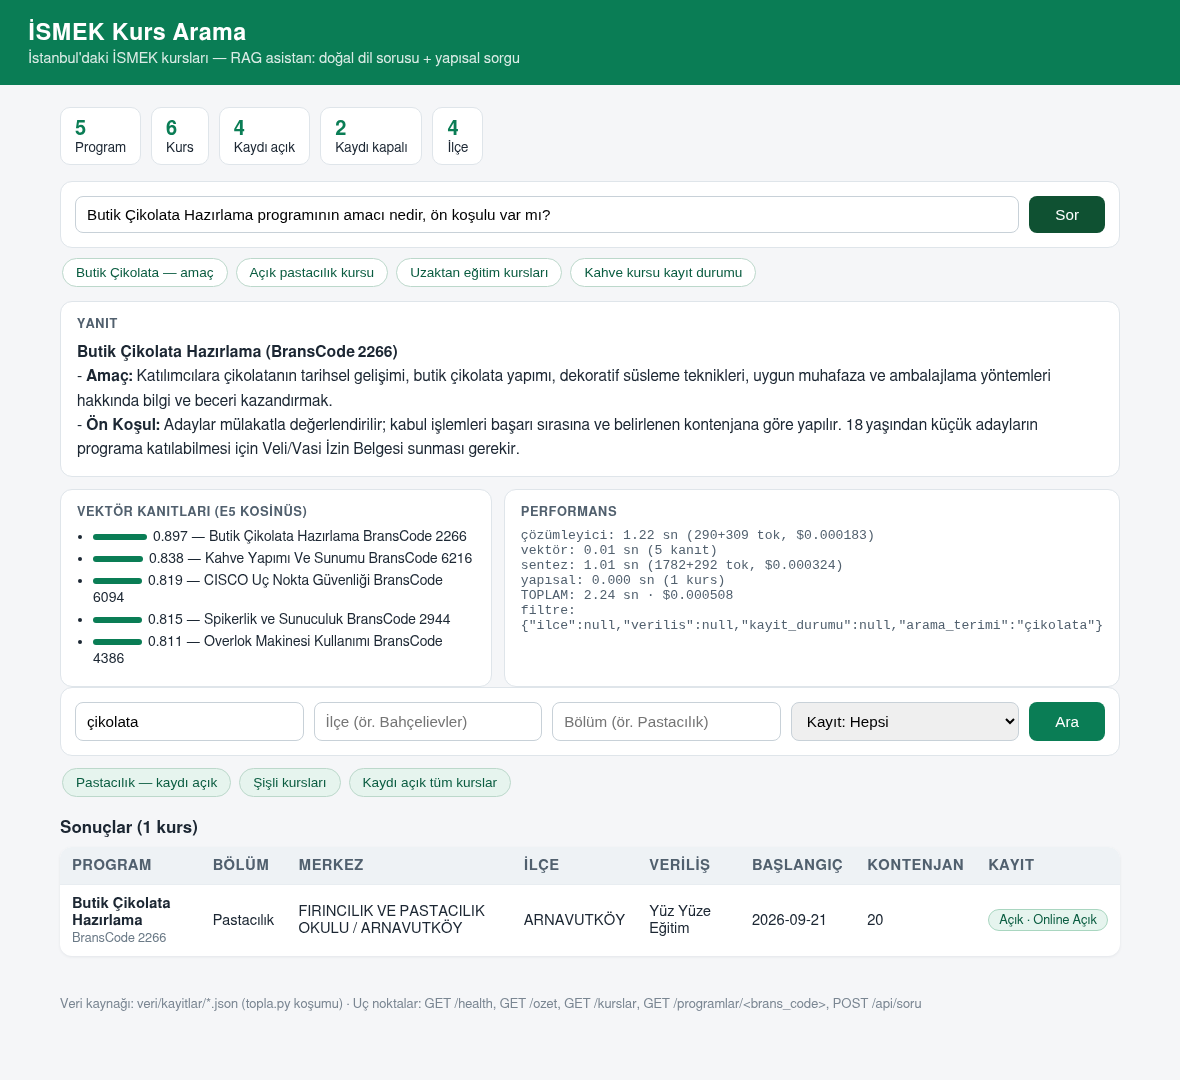
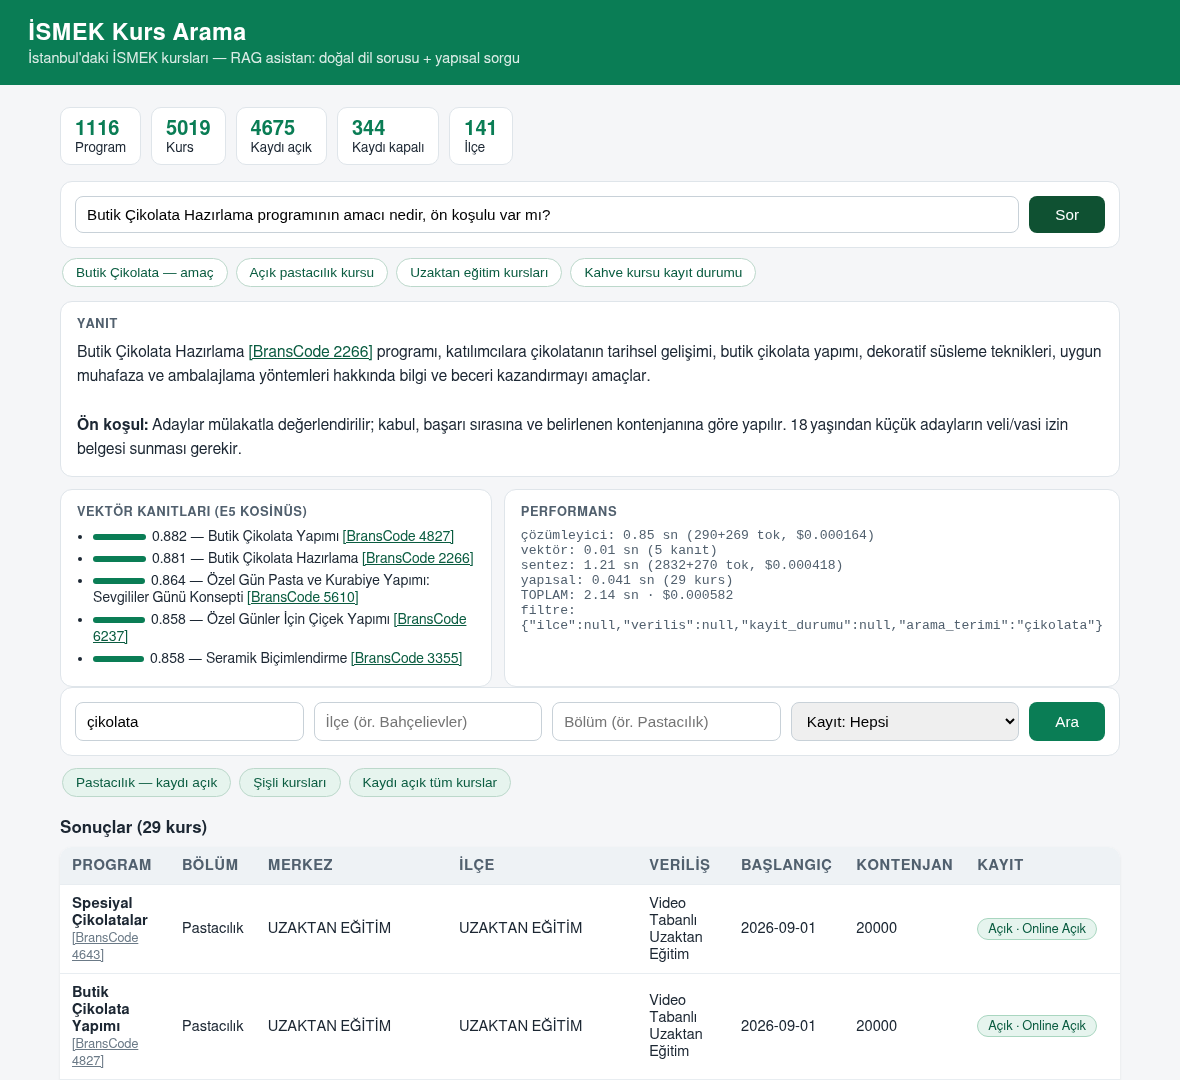
BransCode referanslari ISMEK portal linkine donusturuldu.

diff --git a/app/web.py b/app/web.py
@@ -88,6 +88,9 @@ SAYFA = """<!doctype html>
           background: #fdecec; border: 1px solid #f0b7b7; color: #9b2626; }
 
 
+  main a { color: #0a5c40; }
+  main a:hover { text-decoration: underline; }
+
 </style>
 </head>
 <body>
@@ -175,6 +178,17 @@ function tarih(k) {
   return String(k ?? "").slice(0, 10);
 }
 
+function portal(kod) {
+  return '<a class="kod" href="https://enstitu.ibb.istanbul/portal/egitim_detay.aspx?BransCode='
+    + kod + '" target="_blank" rel="noopener">[BransCode ' + kod + ']</a>';
+}
+
+function portalBagla(metin) {
+  return metin
+    .replace(/[[]BransCode\\s*([0-9]+)[]]/g, function(_, kod) { return portal(kod); })
+    .replace(/[(]BransCode\\s*([0-9]+)[)]/g, function(_, kod) { return portal(kod); });
+}
+
 function tabloDoldur(satirlar) {
   $("hata").hidden = true;
   $("bos").hidden = satirlar.length > 0;
@@ -189,7 +203,7 @@ function tabloDoldur(satirlar) {
       : '<span class="pil kapali">Kapalı · ' + kacir(s.kayit_durumu) + "</span>";
     tr.innerHTML =
       '<td><span class="prog">' + kacir(s.program) + '</span><br>' +
-      '<span class="kod">BransCode ' + s.brans_code + "</span></td>" +
+      portal(s.brans_code) + "</td>" +
       "<td>" + kacir(s.bolum) + "</td>" +
       "<td>" + kacir(s.merkez) + "</td>" +
       "<td>" + kacir(s.ilce) + "</td>" +
@@ -276,14 +290,14 @@ async function nlSor() {
 
 function nlGoster(d) {
   $("nlsonuc").hidden = false;
-  $("nlcevap").innerHTML = kacir(d.yanit).split("**")
-    .map((p, i) => i % 2 ? "<b>" + p + "</b>" : p).join("");
+  $("nlcevap").innerHTML = portalBagla(kacir(d.yanit).split("**")
+    .map((p, i) => i % 2 ? "<b>" + p + "</b>" : p).join(""));
   $("nlkanit").textContent = "";
   for (const k of d.vektor.kanitlar) {
     const li = document.createElement("li");
     li.innerHTML = '<span class="skor" style="width:' + Math.round(k.skor * 60) + 'px"></span>'
       + k.skor.toFixed(3) + " — " + kacir(k.program)
-      + ' <span class="kod">BransCode ' + k.brans_code + "</span>";
+      + " " + portal(k.brans_code);
     $("nlkanit").appendChild(li);
   }
   const m = d.maliyet;

diff --git a/README.md b/README.md
@@ -28,7 +28,7 @@ Doğal dil sorusu → kanıtlı yanıt hattı (RAG) ve web arayüzü eklendi:
   - `bot/requirements.txt`: openai, sentence-transformers, chromadb, pytest.
 - **`topla.py`** — İSMEK portalının PageMethods JSON API'sinden tam katalogu toplayan nazik toplayıcı (kayitlar + markdown + ozet üretir; devam edebilir, `python3 topla.py`). RAG'ın statik belgeleri (`veri/markdown/*.md`: amaç, ön koşullar, sınav, malzeme) bu koşumdan gelir; kayıt durumu/tarih gibi dinamik alanlar bilinçli olarak belgeye konmaz — onlar `app/sorgu.py` yapısal katmanından gelir.
 - **`app/api.py`** — yeni `POST /api/soru`: çözümleyici → yapısal sorgu + vektör arama → sentez; aşama süreleri, token ve maliyet dökümüyle döner. `GET /health` artık program sayısı + model adı verir.
-- **`app/web.py`** — tek sayfa arayüz: doğal dil soru kutusu + örnek soru çipleri (yanıt, vektör kanıt skorları, performans/filtre paneli) ve yapısal filtre formu. Derin bağlantı: `/?soru=...` (RAG) veya `/?kayit=acik` (yapısal).
+- **`app/web.py`** — tek sayfa arayüz: doğal dil soru kutusu + örnek soru çipleri (yanıt, vektör kanıt skorları, performans/filtre paneli) ve yapısal filtre formu. Derin bağlantı: `/?soru=...` (RAG) veya `/?kayit=acik` (yapısal). Yanıtta, kanıtlarda ve tablodaki BransCode referansları İSMEK portal program sayfasına bağlantıdır.
 - **`app/sorgu.py`** — `arama` filtresi artık program ve bölüm adında substring eşleşir (çözümleyici "pastacılık" gibi bölüm adı döndürünce de satır döner) ve şapkalı harf duyarsızdır ("zeka" ↔ "Zekâ").
 
 Çalıştırma (repo kökünden, LLM için `GROQ_API_KEY` env'de):
